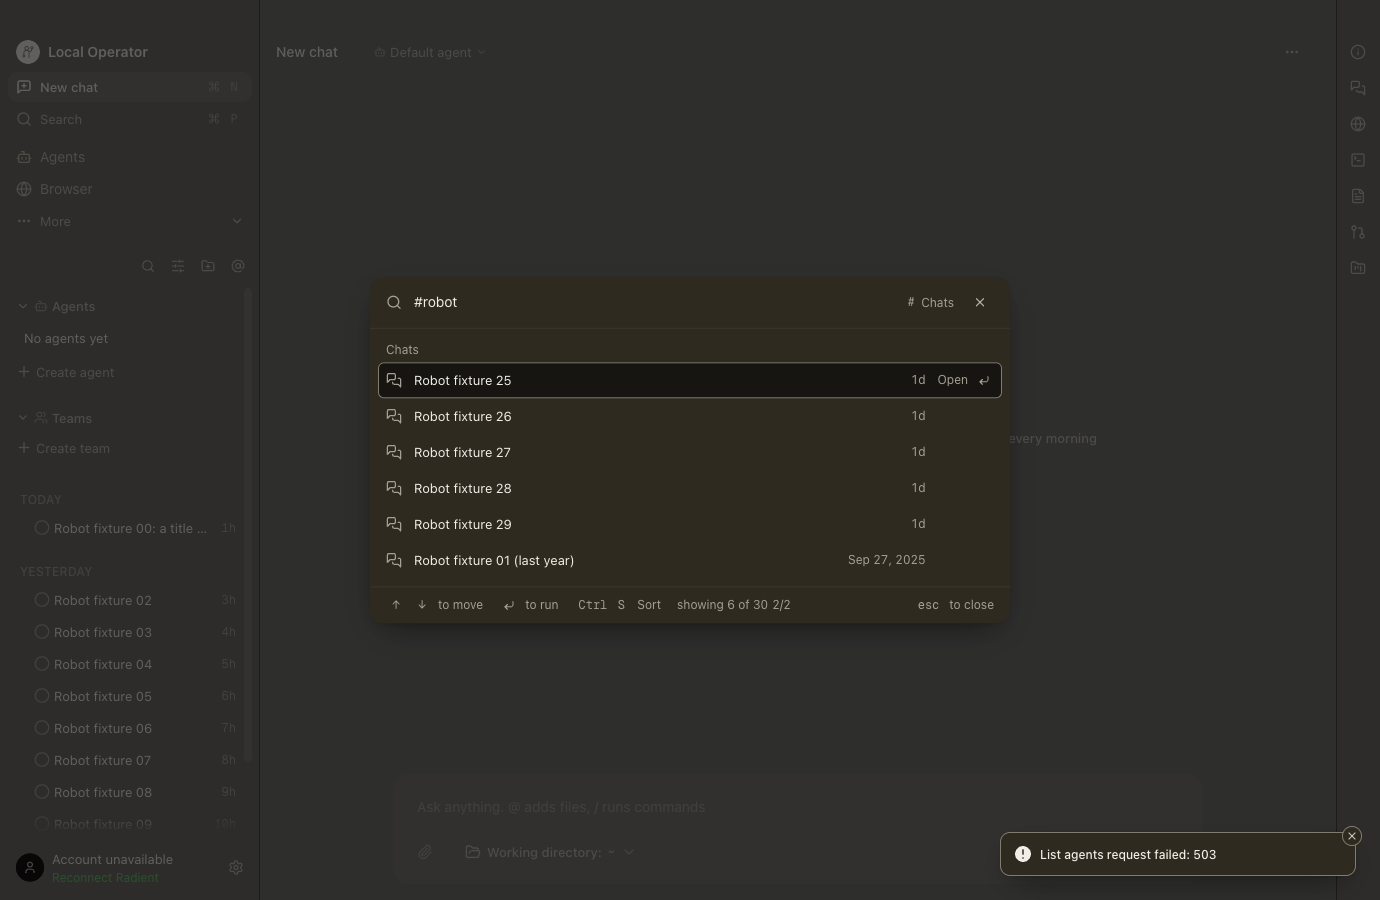
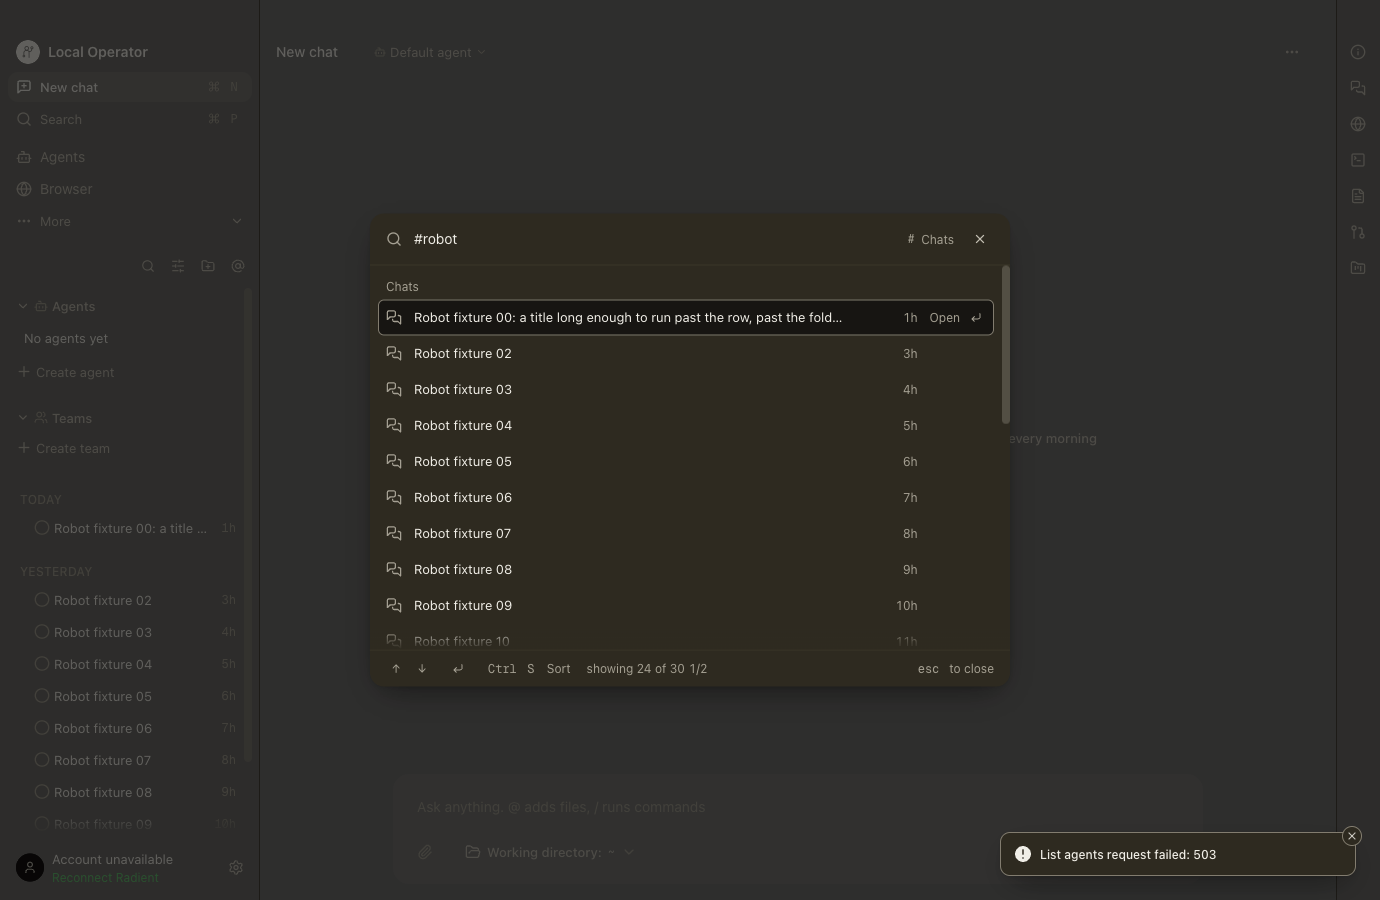
fix(command-palette): the footer count never truncates, in any shipped language
Round 3 of design and agent review on #2020:

- The count is `shrink-0` whenever it is drawn, and the legend's verbs
  (`to move`, `to run`) step out before it — the `↑↓` and `↵` glyphs still say
  what the words said, and `Sort` stays because `Ctrl S` alone reads as Save
  (design D14). Measured at the 800 px window minimum (640 px dialog), page 1:
  every one of the eight shipped languages draws the count at its own text
  width (`en 121`, `es 138`, `fr 151`, `vi 127`, `zh 126`, `ru 131`, `hi 176`,
  `ur 186`), footer 37 px, `scrollWidth = clientWidth = 640`, no child cut —
  `ru` was 0 px and `hi`/`ur` 92/85 px short before this.
- Reopening the palette drops the page it was on (review M2): the open effect
  resets the page record beside the query seed, so a reopen on the same
  persisted query reads page 0 rather than page 2. Pinned by a source-anchor
  test (the component is not mountable in this harness).
- Evidence: `footer-1380-page1.png` is a real page-1 render again (its md5 now
  differs from page 2's; the round-2 file was a copy because the rig shot
  "best" after the page walk — the rig now shoots page 1 first), plus
  `footer-ru/hi/ur-800.png` for the three worst-cut languages (design D15,
  review M1).

diff --git a/src/renderer/src/features/command-palette/components/command-palette.tsx b/src/renderer/src/features/command-palette/components/command-palette.tsx
@@ -317,10 +317,17 @@ export const CommandPalette: FC = () => {
 		setCommandPaletteQuery(settledQuery);
 	}, [settledQuery, setCommandPaletteQuery]);
 
-	// Reopening seeds the field from the store, so a query is never silently
-	// dropped between sessions of the palette.
+	/*
+	 * Reopening seeds the field from the store, so a query is never silently
+	 * dropped between sessions of the palette — and drops the PAGE with it
+	 * (agent review round 3, M2): the palette stays mounted, so a reopen on the
+	 * same persisted query left `question` unchanged and page 2 came back. A
+	 * reopen is a fresh reading of the list, so it starts at its head.
+	 */
 	useEffect(() => {
-		if (isCommandPaletteOpen) setLocalQuery(commandPaletteQuery);
+		if (!isCommandPaletteOpen) return;
+		setLocalQuery(commandPaletteQuery);
+		setPaged({ query: "", sort: DEFAULT_PALETTE_SORT, page: 0 });
 	}, [isCommandPaletteOpen, commandPaletteQuery]);
 
 	const isOnChatPage = location.pathname.startsWith("/chat");
@@ -1384,11 +1391,24 @@ export const CommandPalette: FC = () => {
 											<KeyboardShortcut key={cap} shortcut={cap} joined />
 										))}
 									</span>
-									{t("ui.command_palette.command_palette.to_move")}
+									<span className={cn(outcome.clipped && "hidden")}>
+										{t("ui.command_palette.command_palette.to_move")}
+									</span>
 								</span>
 								<span className="flex shrink-0 items-center gap-1.5 whitespace-nowrap">
 									<KeyboardShortcut shortcut="↵" />
-									<span className="max-[783px]:hidden">
+									{/*
+									 * The verbs yield before the count does — the `↑↓` and `↵`
+									 * glyphs already say what the words said, while the count is the
+									 * only place the total and the page cue exist. `Sort` is the ONE
+									 * label kept, because `Ctrl S` alone reads as Save.
+									 */}
+									<span
+										className={cn(
+											"max-[783px]:hidden",
+											outcome.clipped && "hidden",
+										)}
+									>
 										{t("ui.command_palette.command_palette.to_run")}
 									</span>
 								</span>
@@ -1421,7 +1441,20 @@ export const CommandPalette: FC = () => {
 								 * (design round 1, D2 measured the bar's 460 px content in a 421 px box at a 468 px window).
 								 * Everything else in the bar is `shrink-0`.
 								 */}
-								<span className="flex min-w-0 flex-1 items-center gap-1.5 max-[559px]:hidden">
+								{/*
+								 * THE COUNT HAS PRIORITY (design round 3, D14). It was the elastic
+								 * item, so every language's longer legend ate it: at the 640 px
+								 * dialog `ru` left it 0 px wide, and `es`/`fr`/`hi`/`ur` cut the
+								 * total or the `1/2` cue — the only paging cue this PR has. It now
+								 * keeps its own width (`shrink-0`) and the legend's verbs yield
+								 * first (below); the caps already yield when the count is drawn.
+								 */}
+								<span
+									className={cn(
+										"flex items-center gap-1.5 whitespace-nowrap max-[559px]:hidden",
+										outcome.clipped ? "shrink-0" : "min-w-0 flex-1",
+									)}
+								>
 									{outcome.clipped && (
 										/*
 										 * THE COUNT AGREES WITH THE MODE. It said "showing the best 24 of

diff --git a/docs/pr-evidence/palette-chats-ranking/README.md b/docs/pr-evidence/palette-chats-ranking/README.md
@@ -115,3 +115,33 @@ the frames below are the shipped configuration.
 
 Both round-2 runs use the same fixture (`stub-many-chats.mjs`: 30 chats, one
 132-character title, one 420-day-old chat) and the same rig as round 1.
+
+## Round 3 remediation (design D14/D15, review M1/M2)
+
+**The count is now the item that never gives.** When the count is drawn it is
+`shrink-0`, the `Ctrl N`/`Ctrl P` caps are hidden, and the `to move` / `to run`
+verbs step out — the `↑↓` and `↵` glyphs still say what the words said, while
+`Sort` stays because `Ctrl S` alone reads as Save. Everything below is measured
+at the shipped window minimum (800 px viewport → **640 px dialog**), page 1,
+dark, one launch per language, `navigator.language` overridden per run.
+
+| lang | footer | count box / text | cut |
+| --- | --- | --- | --- |
+| en | 37 px, `scrollWidth 640 = clientWidth 640` | 121 / 121 | none |
+| es | 37 px, 640 = 640 | 138 / 138 | none |
+| fr | 37 px, 640 = 640 | 151 / 151 | none |
+| vi | 37 px, 640 = 640 | 127 / 127 | none |
+| zh-CN | 37 px, 640 = 640 | 126 / 126 | none |
+| ru | 37 px, 640 = 640 | 131 / 131 | none |
+| hi | 37 px, 640 = 640 | 176 / 176 | none |
+| ur | 37 px, 640 = 640 | 186 / 186 | none |
+
+Every footer's own `scrollWidth` equals its `clientWidth` and no child reports
+`scrollWidth > clientWidth`; each run's text carries the total and the `1/2`.
+
+- `footer-ru-800.png`, `footer-hi-800.png`, `footer-ur-800.png`: the three
+  languages that were worst cut (0, 92 and 85 px short in round 2).
+- `footer-1380-page1.png` and `footer-1380-page2.png` are now genuinely
+  different renders (`md5 6a9ae37e…` and `f26e3b9d…`); the round-2 page-1 file
+  was a copy of page 2 because the rig's "best" shot ran after the page walk.
+  The rig now photographs page 1 before pressing Down.
